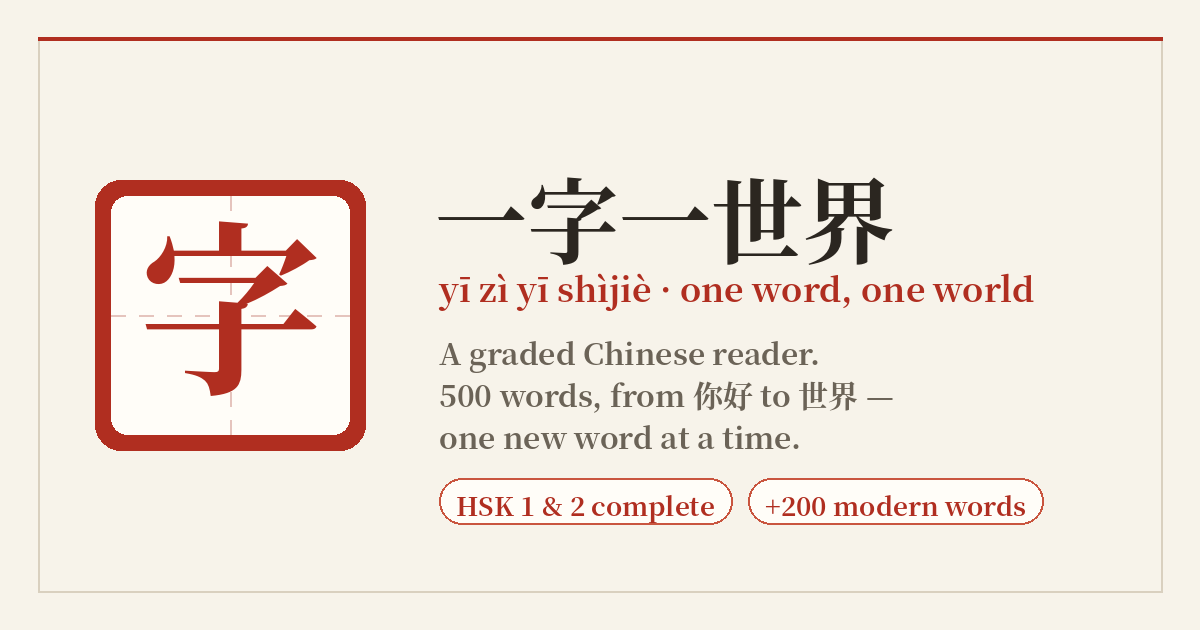
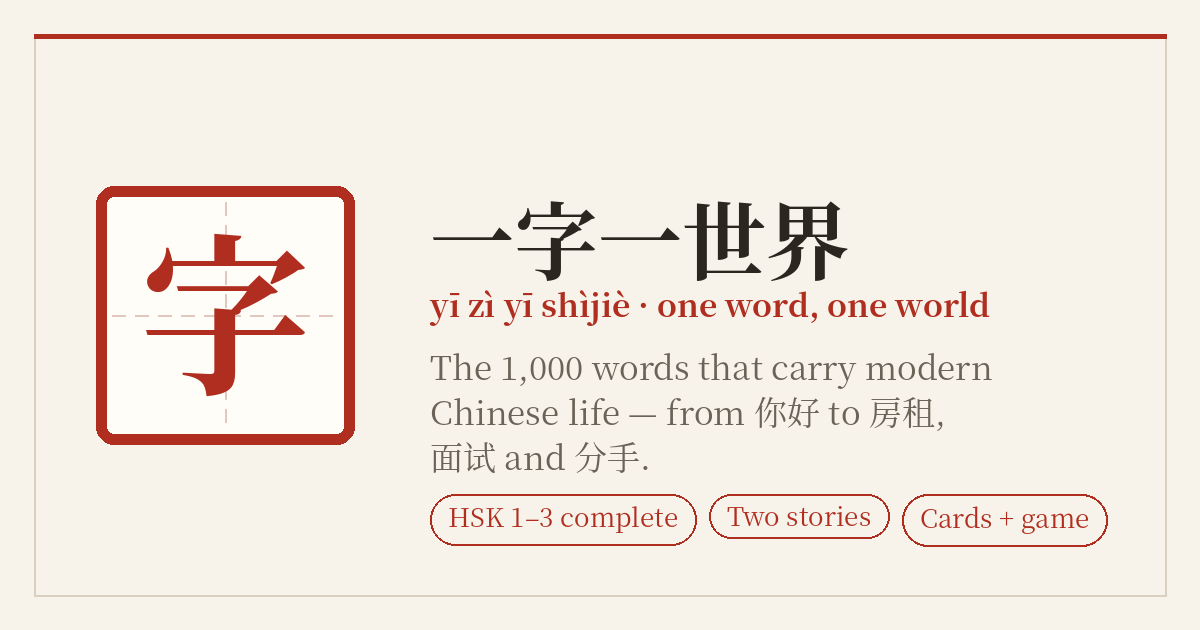
Add files via upload

diff --git a/read.html b/read.html
@@ -6,7 +6,7 @@
 <meta name="color-scheme" content="only light">
 <meta name="theme-color" content="#f7f3ea">
 <title>读书 · The Beginner Reader — 一字一世界</title>
-<meta name="description" content="A graded Chinese reader that starts at zero and introduces one word at a time — all 300 HSK 1 & 2 words plus 200 essentials of modern life in China. Tap any word for pinyin and meaning.">
+<meta name="description" content="Start at zero. A graded story that introduces exactly one new word at a time, with pinyin, meaning and audio on every word.">
 
 <!-- Favicons -->
 <link rel="icon" href="favicon.ico" sizes="any">
@@ -15,22 +15,8 @@
 <link rel="apple-touch-icon" sizes="180x180" href="apple-touch-icon.png">
 
 <!-- Open Graph (Facebook, LinkedIn, iMessage, etc.) -->
-<meta property="og:type" content="website">
-<meta property="og:site_name" content="一字一世界">
-<meta property="og:title" content="一字一世界 · A Graded Chinese Reader">
-<meta property="og:description" content="Start at zero and learn 500 words one at a time — every HSK 1 & 2 word plus 200 essentials of modern Chinese life. Tap any word for pinyin and meaning.">
-<meta property="og:url" content="https://chinesereader.net/">
-<meta property="og:image" content="https://chinesereader.net/og-image.png">
-<meta property="og:image:width" content="1200">
-<meta property="og:image:height" content="630">
-<meta property="og:image:alt" content="一字一世界 — a graded Chinese reader, 500 words from 你好 to 世界.">
 
 <!-- Twitter / X card -->
-<meta name="twitter:card" content="summary_large_image">
-<meta name="twitter:title" content="一字一世界 · A Graded Chinese Reader">
-<meta name="twitter:description" content="Start at zero and learn 500 words one at a time — every HSK 1 & 2 word plus 200 essentials of modern Chinese life.">
-<meta name="twitter:image" content="https://chinesereader.net/og-image.png">
-<meta name="twitter:creator" content="@pourteaux">
 <style>
 :root{
   color-scheme: only light;
@@ -359,6 +345,19 @@ main{max-width:680px;margin:26px auto 0;padding:0 24px 120px}
   .nw-count{min-width:60px}
 }
 </style>
+<meta property="og:type" content="website">
+<meta property="og:site_name" content="一字一世界">
+<meta property="og:title" content="读书 · The Beginner Reader — 一字一世界">
+<meta property="og:description" content="Start at zero. A graded story that introduces exactly one new word at a time, with pinyin, meaning and audio on every word.">
+<meta property="og:url" content="https://chinesereader.net/read.html">
+<meta property="og:image" content="https://chinesereader.net/og-image.png">
+<meta property="og:image:width" content="1200">
+<meta property="og:image:height" content="630">
+<meta name="twitter:card" content="summary_large_image">
+<meta name="twitter:title" content="读书 · The Beginner Reader — 一字一世界">
+<meta name="twitter:description" content="Start at zero. A graded story that introduces exactly one new word at a time, with pinyin, meaning and audio on every word.">
+<meta name="twitter:image" content="https://chinesereader.net/og-image.png">
+<meta name="twitter:creator" content="@pourteaux">
 </head>
 <body>
 <div id="progressbar"></div>

diff --git a/index.html b/index.html
@@ -6,26 +6,12 @@
 <meta name="color-scheme" content="only light">
 <meta name="theme-color" content="#f7f3ea">
 <title>一字一世界 · Learn the 1,000 Essential Words of Modern Chinese</title>
-<meta name="description" content="Learn 500 words of Chinese, one at a time — read a graded story, or play a hanzi recognition game. Every HSK 1 & 2 word plus 200 essentials of modern life in China.">
+<meta name="description" content="The 1,000 words that carry modern Chinese life — two graded stories, flashcards, and a recognition game.">
 
 <link rel="icon" href="favicon.ico" sizes="any">
 <link rel="icon" type="image/png" sizes="32x32" href="favicon-32x32.png">
 <link rel="icon" type="image/png" sizes="16x16" href="favicon-16x16.png">
 <link rel="apple-touch-icon" sizes="180x180" href="apple-touch-icon.png">
-
-<meta property="og:type" content="website">
-<meta property="og:site_name" content="一字一世界">
-<meta property="og:title" content="一字一世界 · Learn the 1,000 Essential Words of Modern Chinese">
-<meta property="og:description" content="The 1,000 words that carry modern Chinese life — a graded reader, a novel, and a recognition game.">
-<meta property="og:url" content="https://chinesereader.net/">
-<meta property="og:image" content="https://chinesereader.net/og-image.png">
-<meta property="og:image:width" content="1200">
-<meta property="og:image:height" content="630">
-<meta name="twitter:card" content="summary_large_image">
-<meta name="twitter:title" content="一字一世界 · Learn the 1,000 Essential Words of Modern Chinese">
-<meta name="twitter:description" content="The 1,000 words that carry modern Chinese life — a graded reader, a novel, and a recognition game.">
-<meta name="twitter:image" content="https://chinesereader.net/og-image.png">
-<meta name="twitter:creator" content="@pourteaux">
 
 <style>
 :root{
@@ -132,6 +118,19 @@ footer a:hover{color:var(--seal-soft)}
   .choice h2{font-size:29px}
 }
 </style>
+<meta property="og:type" content="website">
+<meta property="og:site_name" content="一字一世界">
+<meta property="og:title" content="一字一世界 · Learn the 1,000 Essential Words of Modern Chinese">
+<meta property="og:description" content="The 1,000 words that carry modern Chinese life — two graded stories, flashcards, and a recognition game.">
+<meta property="og:url" content="https://chinesereader.net/">
+<meta property="og:image" content="https://chinesereader.net/og-image.png">
+<meta property="og:image:width" content="1200">
+<meta property="og:image:height" content="630">
+<meta name="twitter:card" content="summary_large_image">
+<meta name="twitter:title" content="一字一世界 · Learn the 1,000 Essential Words of Modern Chinese">
+<meta name="twitter:description" content="The 1,000 words that carry modern Chinese life — two graded stories, flashcards, and a recognition game.">
+<meta name="twitter:image" content="https://chinesereader.net/og-image.png">
+<meta name="twitter:creator" content="@pourteaux">
 </head>
 <body>
 

diff --git a/intermediate.html b/intermediate.html
@@ -6,7 +6,7 @@
 <meta name="color-scheme" content="only light">
 <meta name="theme-color" content="#f7f3ea">
 <title>北京有雨 · The Early Intermediate Reader — 一字一世界</title>
-<meta name="description" content="An adult graded reader in Chinese: a novel of modern Beijing life, told in 1000 words. Tap any word for pinyin, meaning, and audio.">
+<meta name="description" content="A novel of modern Beijing, written entirely in the 1,000 essential words. Tap any word for pinyin, meaning and audio.">
 <link rel="icon" href="favicon.ico" sizes="any">
 <link rel="icon" type="image/png" sizes="32x32" href="favicon-32x32.png">
 <link rel="apple-touch-icon" sizes="180x180" href="apple-touch-icon.png">
@@ -244,6 +244,19 @@ body.show-all-trans .trans{display:block}
 .endmark .seal{width:74px;height:74px;border:3px solid var(--seal);color:var(--seal);display:flex;align-items:center;justify-content:center;font-size:32px;margin:0 auto 16px}
 .endmark p{color:var(--ink-soft);font-size:13.5px;font-style:italic}
 </style>
+<meta property="og:type" content="website">
+<meta property="og:site_name" content="一字一世界">
+<meta property="og:title" content="北京有雨 · The Early Intermediate Reader — 一字一世界">
+<meta property="og:description" content="A novel of modern Beijing, written entirely in the 1,000 essential words. Tap any word for pinyin, meaning and audio.">
+<meta property="og:url" content="https://chinesereader.net/intermediate.html">
+<meta property="og:image" content="https://chinesereader.net/og-image.png">
+<meta property="og:image:width" content="1200">
+<meta property="og:image:height" content="630">
+<meta name="twitter:card" content="summary_large_image">
+<meta name="twitter:title" content="北京有雨 · The Early Intermediate Reader — 一字一世界">
+<meta name="twitter:description" content="A novel of modern Beijing, written entirely in the 1,000 essential words. Tap any word for pinyin, meaning and audio.">
+<meta name="twitter:image" content="https://chinesereader.net/og-image.png">
+<meta name="twitter:creator" content="@pourteaux">
 </head>
 <body>
 <div id="progressbar"></div>

diff --git a/cards.html b/cards.html
@@ -6,7 +6,7 @@
 <meta name="color-scheme" content="only light">
 <meta name="theme-color" content="#f7f3ea">
 <title>生词卡 · Flashcards — 一字一世界</title>
-<meta name="description" content="Flashcards for the 1,000 essential words of modern Chinese life. Filter by level or starred words, and choose what goes on the front of the card.">
+<meta name="description" content="Drill any slice of the 1,000 words. Filter by HSK level or your starred words, and choose what goes on the front of the card.">
 <link rel="icon" href="favicon.ico" sizes="any">
 <link rel="icon" type="image/png" sizes="32x32" href="favicon-32x32.png">
 <link rel="apple-touch-icon" sizes="180x180" href="apple-touch-icon.png">
@@ -168,6 +168,19 @@ h1{font-size:clamp(30px,6vw,42px);font-weight:400;letter-spacing:.1em}
 @media (max-width:700px){ #credit-badge{display:none} }
 .no-tts .needs-tts{display:none}
 </style>
+<meta property="og:type" content="website">
+<meta property="og:site_name" content="一字一世界">
+<meta property="og:title" content="生词卡 · Flashcards — 一字一世界">
+<meta property="og:description" content="Drill any slice of the 1,000 words. Filter by HSK level or your starred words, and choose what goes on the front of the card.">
+<meta property="og:url" content="https://chinesereader.net/cards.html">
+<meta property="og:image" content="https://chinesereader.net/og-image.png">
+<meta property="og:image:width" content="1200">
+<meta property="og:image:height" content="630">
+<meta name="twitter:card" content="summary_large_image">
+<meta name="twitter:title" content="生词卡 · Flashcards — 一字一世界">
+<meta name="twitter:description" content="Drill any slice of the 1,000 words. Filter by HSK level or your starred words, and choose what goes on the front of the card.">
+<meta name="twitter:image" content="https://chinesereader.net/og-image.png">
+<meta name="twitter:creator" content="@pourteaux">
 </head>
 <body>
 

diff --git a/game.html b/game.html
@@ -6,7 +6,7 @@
 <meta name="color-scheme" content="only light">
 <meta name="theme-color" content="#f7f3ea">
 <title>一字一格 · The Tile Game — 一字一世界</title>
-<meta name="description" content="A hanzi recognition game: climb across a honeycomb of Chinese characters, one word at a time. Same 500 words as the reader.">
+<meta name="description" content="A honeycomb of all 1,000 words. Clear a path from the easy centre out to the harder rim — how long a streak can you build?">
 <link rel="icon" href="favicon.ico" sizes="any">
 <link rel="icon" type="image/png" sizes="32x32" href="favicon-32x32.png">
 <link rel="apple-touch-icon" sizes="180x180" href="apple-touch-icon.png">
@@ -316,6 +316,19 @@ body.practice #scorebar .sc:not(.jade){opacity:.35}
 #credit-badge b{color:var(--seal)}
 @media (max-width:560px){ #credit-badge{display:none} }
 </style>
+<meta property="og:type" content="website">
+<meta property="og:site_name" content="一字一世界">
+<meta property="og:title" content="一字一格 · The Tile Game — 一字一世界">
+<meta property="og:description" content="A honeycomb of all 1,000 words. Clear a path from the easy centre out to the harder rim — how long a streak can you build?">
+<meta property="og:url" content="https://chinesereader.net/game.html">
+<meta property="og:image" content="https://chinesereader.net/og-image.png">
+<meta property="og:image:width" content="1200">
+<meta property="og:image:height" content="630">
+<meta name="twitter:card" content="summary_large_image">
+<meta name="twitter:title" content="一字一格 · The Tile Game — 一字一世界">
+<meta name="twitter:description" content="A honeycomb of all 1,000 words. Clear a path from the easy centre out to the harder rim — how long a streak can you build?">
+<meta name="twitter:image" content="https://chinesereader.net/og-image.png">
+<meta name="twitter:creator" content="@pourteaux">
 </head>
 <body>
 
